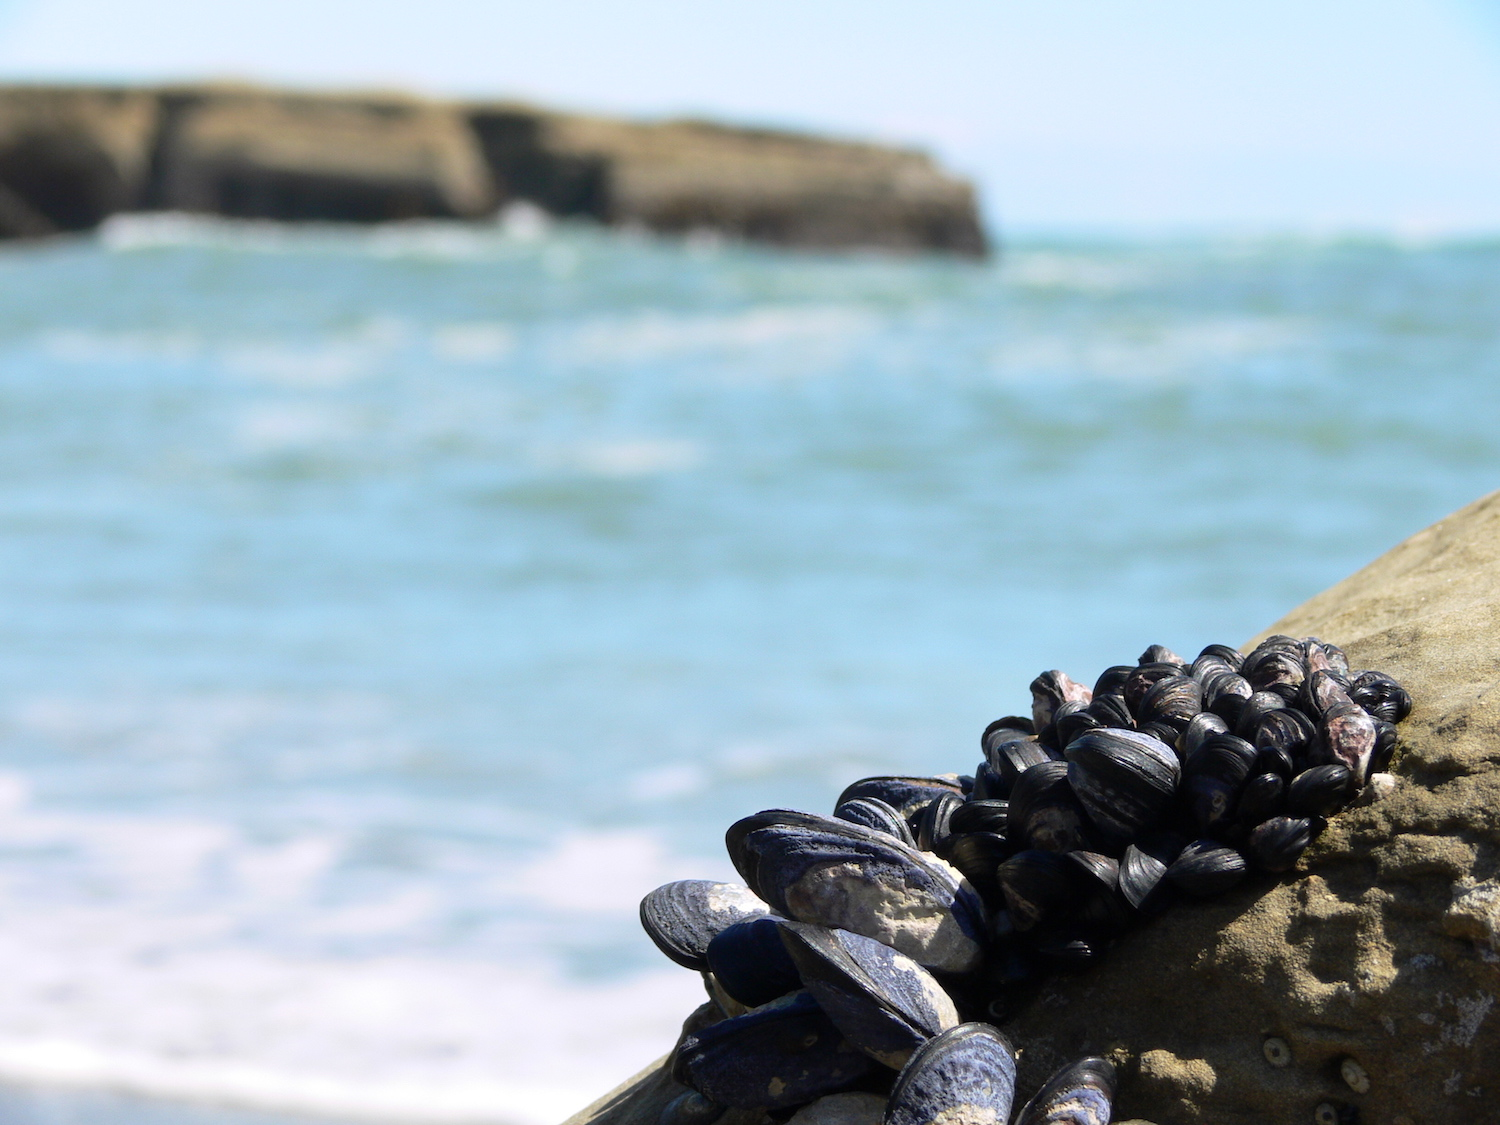
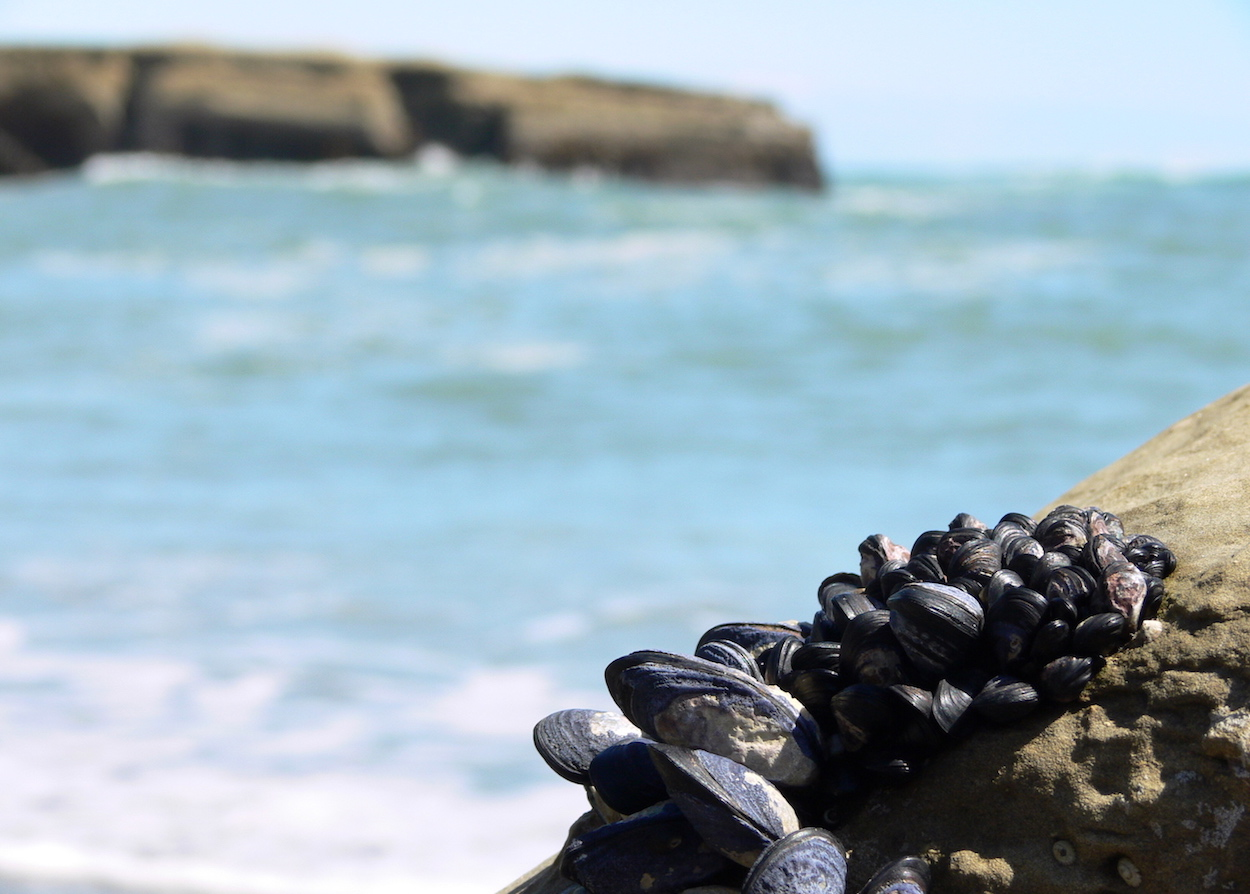
edit images

diff --git a/static/css/all.css b/static/css/all.css
@@ -150,7 +150,7 @@ strong {
 .site-content {
   min-height: 100vh;
   margin:auto;
-  width: 70%;
+  width: 55%;
 }
 
 .site-content img {
@@ -159,7 +159,7 @@ strong {
 
 @media only screen and (max-width: 58em) {
     .site-content {
-      width: 75%;
+      width: 65%;
   }
 }
 
